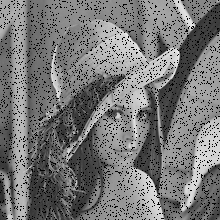
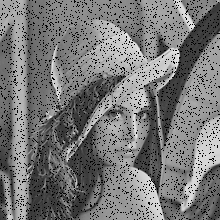
edge filter done

Changed region(s): [[0.0, 0.0, 1.0, 1.0]]

diff --git a/Task1/main.py b/Task1/main.py
@@ -66,9 +66,9 @@ class ApplicationWindow(QtWidgets.QMainWindow):
             for j in range(1,C-2):
                 S1 = np.sum(np.sum(np.multiply(maskX,img[i:i+n,j:j+n])))
                 S2 = np.sum(np.sum(np.multiply(maskY,img[i:i+n,j:j+n])))
-                newImage[i+1,j+1]= np.sqrt(np.sqrt(np.power(S1,2)+np.power(S2,2)))
-                if newImage[i+1,j+1] > 12:
-                    newImage[i+1,j+1] = 200
+                newImage[i+1,j+1]= np.sqrt(np.power(S1,2)+np.power(S2,2))
+                
+        newImage *= 255.0 / newImage.max()
         cv2.imwrite("Edge.png",newImage)
         self.ui.output1.setPixmap(QPixmap("G:/SBME/CV/Tasks/CV/Task1/Edge.png")) 
     def PrewittFilter(self,img,R,C,n):
@@ -79,9 +79,8 @@ class ApplicationWindow(QtWidgets.QMainWindow):
             for j in range(1,C-2):
                     S1 = np.sum(np.multiply(maskX,img[i:i+n,j:j+n]))
                     S2 = np.sum(np.multiply(maskY,img[i:i+n,j:j+n]))
-                    newImage[i+1,j+1] = np.sqrt(np.sqrt(np.power(S1,2)+np.power(S2,2)))
-                    if newImage[i+1,j+1] > 12:
-                        newImage[i+1,j+1] = 200
+                    newImage[i+1,j+1] = np.sqrt(np.power(S1,2)+np.power(S2,2))
+        newImage *= 255.0 / newImage.max()                
         cv2.imwrite("Edge.png",newImage)
         self.ui.output1.setPixmap(QPixmap("G:/SBME/CV/Tasks/CV/Task1/Edge.png"))
     def RobertsFilter(self,img,R,C,n):
@@ -92,9 +91,8 @@ class ApplicationWindow(QtWidgets.QMainWindow):
             for j in range(1,C-2):
                     S1 = np.sum(np.multiply(maskX,img[i:i+n,j:j+n]))
                     S2 = np.sum(np.multiply(maskY,img[i:i+n,j:j+n]))
-                    newImage[i+1,j+1] = np.sqrt(np.sqrt(np.power(S1,2)+np.power(S2,2)))
-                    # if newImage[i+1,j+1] > 10:
-                    #     newImage[i+1,j+1] = 200
+                    newImage[i+1,j+1] = np.sqrt(np.power(S1,2)+np.power(S2,2))
+        newImage *= 255.0 / newImage.max()            
         cv2.imwrite("Edge.png",newImage)
         self.ui.output1.setPixmap(QPixmap("G:/SBME/CV/Tasks/CV/Task1/Edge.png"))   
          
